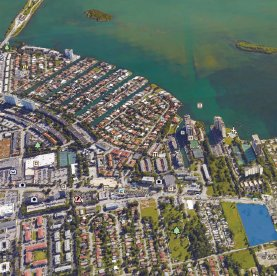
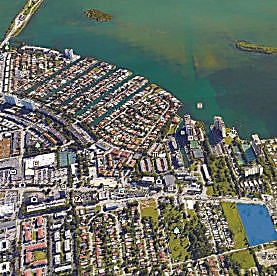
Sharpen multifamily listing photos and add smooth Read More scroll
Applies an unsharp mask to the four listing photos, which soften when
CSS-scaled up from their small source resolution. Also extracts the
Team page's eased scroll-to-center helper into a shared util and
wires it into the Multifamily Read More toggle, so expanding a
listing scrolls it into view the same way "Read Bio" does on Team.

diff --git a/src/pages/PropertyCategoryPage.tsx b/src/pages/PropertyCategoryPage.tsx
@@ -1,9 +1,10 @@
-import { useState } from "react";
+import { useRef, useState } from "react";
 import { Copy } from "../components/Copy";
 import { PageHeader } from "../components/PageHeader";
 import { PlaceholderImage } from "../components/PlaceholderImage";
 import { Reveal } from "../components/Reveal";
 import type { PropertyCategory } from "../content/content";
+import { smoothScrollToCenter } from "../lib/smoothScroll";
 
 type Listing = PropertyCategory["listings"][number];
 
@@ -39,9 +40,22 @@ export function PropertyCategoryPage({ category }: { category: PropertyCategory 
 
 function ListingCard({ listing }: { listing: Listing }) {
   const [open, setOpen] = useState(false);
+  const cardRef = useRef<HTMLDivElement>(null);
+
+  const toggle = () => {
+    const next = !open;
+    setOpen(next);
+    if (next) {
+      // Wait for the extra paragraphs to render before measuring, so the
+      // whole expanded card ends up in view instead of getting cut off.
+      requestAnimationFrame(() => {
+        if (cardRef.current) smoothScrollToCenter(cardRef.current);
+      });
+    }
+  };
 
   return (
-    <div className="group">
+    <div ref={cardRef} className="group scroll-mt-24">
       <div className="overflow-hidden">
         {listing.image ? (
           <img
@@ -69,7 +83,7 @@ function ListingCard({ listing }: { listing: Listing }) {
         {listing.moreDescription && listing.moreDescription.length > 0 && (
           <button
             type="button"
-            onClick={() => setOpen((v) => !v)}
+            onClick={toggle}
             aria-expanded={open}
             className="font-display mt-3 flex items-center gap-1 text-sm italic text-ink underline decoration-bronze-500 decoration-1 underline-offset-2 hover:text-bronze-600"
           >

diff --git a/src/pages/Team.tsx b/src/pages/Team.tsx
@@ -2,33 +2,7 @@ import { useRef, useState } from "react";
 import { PageHeader } from "../components/PageHeader";
 import { Reveal } from "../components/Reveal";
 import { team, teamHeading, type TeamMember } from "../content/content";
-
-function easeInOutCubic(t: number) {
-  return t < 0.5 ? 4 * t * t * t : 1 - Math.pow(-2 * t + 2, 3) / 2;
-}
-
-/** Custom eased scroll (longer + gentler than the browser's native "smooth" scroll). */
-function smoothScrollToCenter(el: HTMLElement, duration = 700) {
-  if (window.matchMedia("(prefers-reduced-motion: reduce)").matches) {
-    el.scrollIntoView({ block: "center" });
-    return;
-  }
-
-  const rect = el.getBoundingClientRect();
-  const startY = window.scrollY;
-  const targetY = startY + rect.top - (window.innerHeight - rect.height) / 2;
-  const diff = targetY - startY;
-  let startTime: number | null = null;
-
-  function step(timestamp: number) {
-    if (startTime === null) startTime = timestamp;
-    const progress = Math.min((timestamp - startTime) / duration, 1);
-    window.scrollTo(0, startY + diff * easeInOutCubic(progress));
-    if (progress < 1) requestAnimationFrame(step);
-  }
-
-  requestAnimationFrame(step);
-}
+import { smoothScrollToCenter } from "../lib/smoothScroll";
 
 export function Team() {
   return (

diff --git a/src/lib/smoothScroll.ts b/src/lib/smoothScroll.ts
@@ -1,0 +1,26 @@
+function easeInOutCubic(t: number) {
+  return t < 0.5 ? 4 * t * t * t : 1 - Math.pow(-2 * t + 2, 3) / 2;
+}
+
+/** Custom eased scroll (longer + gentler than the browser's native "smooth" scroll). */
+export function smoothScrollToCenter(el: HTMLElement, duration = 700) {
+  if (window.matchMedia("(prefers-reduced-motion: reduce)").matches) {
+    el.scrollIntoView({ block: "center" });
+    return;
+  }
+
+  const rect = el.getBoundingClientRect();
+  const startY = window.scrollY;
+  const targetY = startY + rect.top - (window.innerHeight - rect.height) / 2;
+  const diff = targetY - startY;
+  let startTime: number | null = null;
+
+  function step(timestamp: number) {
+    if (startTime === null) startTime = timestamp;
+    const progress = Math.min((timestamp - startTime) / duration, 1);
+    window.scrollTo(0, startY + diff * easeInOutCubic(progress));
+    if (progress < 1) requestAnimationFrame(step);
+  }
+
+  requestAnimationFrame(step);
+}
